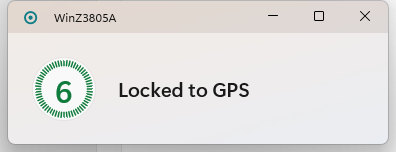
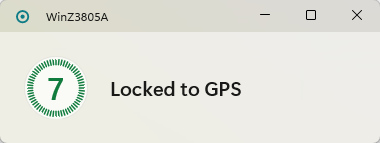
Re-take the compact picture now that compact mode draws correctly
The guide's compact picture had been kept from before #556's run because compact mode
was showing the clipped pills. It is re-taken now, and the guide says what is left in
a reduced window sits in the middle of it.

The close-ups script now needs the Details window only when a wanted picture does, so
-Only main-compact runs with the main window alone.

diff --git a/docs/how-to-use.md b/docs/how-to-use.md
@@ -136,7 +136,7 @@ Three things can sit after the time:
 
 ### Compact mode
 
-![A small window, 396 by 152 pixels: a 64 px circle with a uniform dotted green ring and a large green 6 in the centre, and "Locked to GPS" beside it](images/how-to-use/main-compact.png)
+![A small window, its content 380 by 143 pixels: a 64 px circle with a uniform dotted green ring and a large green 7 in the centre, and "Locked to GPS" beside it, the two centred between the title bar and the bottom edge](images/how-to-use/main-compact.png)
 
 Compact mode is for a corner of the screen: the medallion shrinks, the satellite count moves into
 its centre, and everything else goes. **The window itself shrinks to its compact size when you
@@ -146,7 +146,8 @@ application remembers that you were in compact mode and reopens that way.
 
 If you make the standard window very short without entering compact mode, the readouts, figures of
 merit, clock line and footer are removed rather than squashed, and the satellite count moves into
-the medallion's centre there too — the count is always on the screen somewhere.
+the medallion's centre there too — the count is always on the screen somewhere. In both cases what
+is left sits in the middle of the window, however tall you make it.
 
 ---
 

diff --git a/docs/manual-qa.md b/docs/manual-qa.md
@@ -357,11 +357,14 @@ a picture.
 > the page run and back off afterwards; the switches' own close-ups are then taken with it off,
 > which is the default the guide's table describes.
 >
-> **Two things the 29 Sep 2026 run left alone, on purpose:**
+> **`main-compact.png` was taken last, once #565 was fixed.** Compact mode had been drawing the TFOM
+> and FFOM pills clipped under the medallion, and a picture of the defect would have illustrated the
+> wrong thing.
+>
+> **One thing the run left alone, on purpose:**
 >
 > | Image | Why it was kept |
 > |---|---|
-> | `main-compact.png` | Compact mode was drawing the TFOM and FFOM pills clipped under the medallion (#565). A picture of the defect would illustrate the wrong thing. Re-take it with `-Only main-compact` once that is fixed |
 > | Receiver-specific cards | The Z3805A has no **Disciplining loop** card (a UCCM's, #512), no **Antenna** or **Integrity** pill (#515, #516) and no **Position uncertainty** row (#516), so the pictures correctly show none. The guide's prose says which receivers have them |
 
 ---
